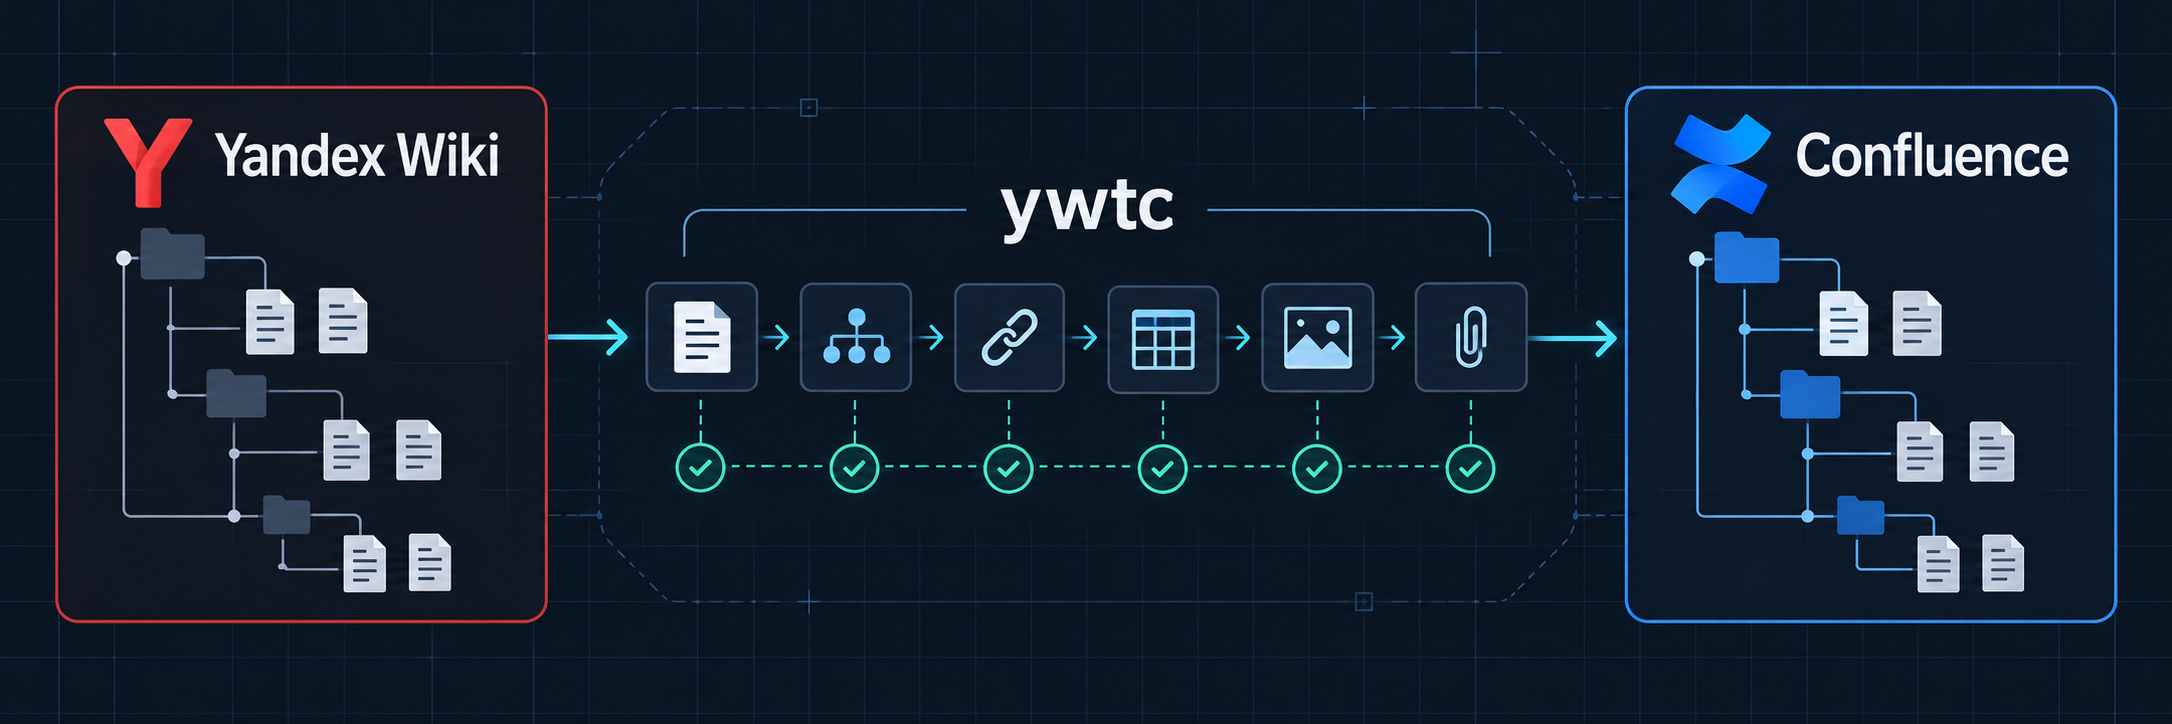
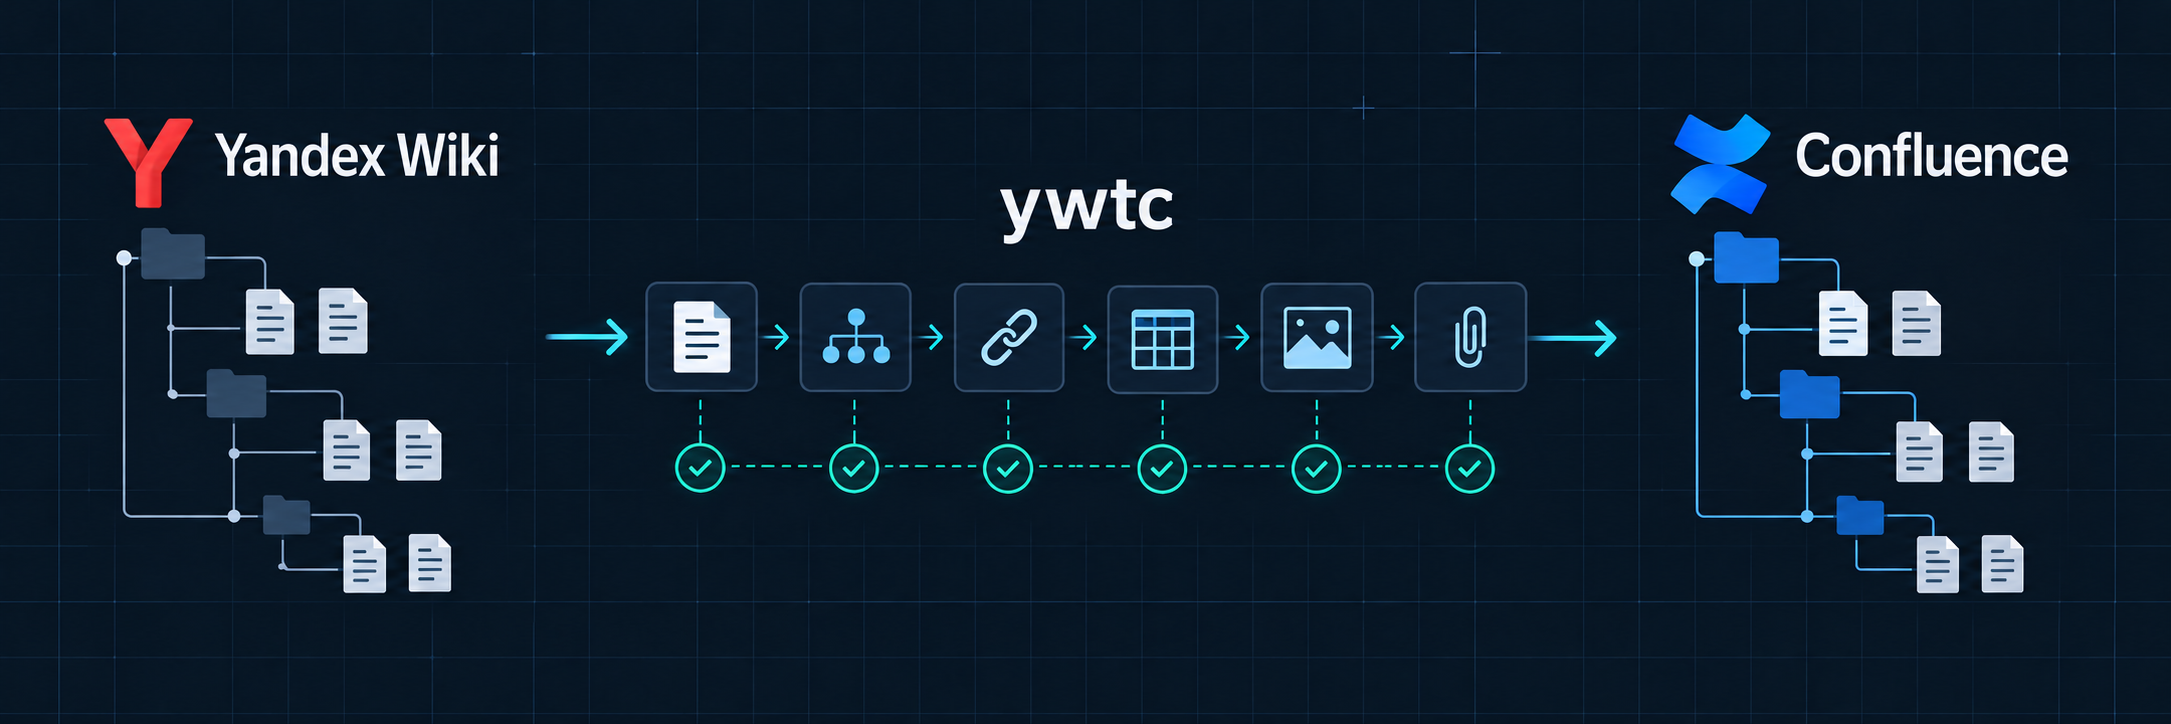
docs: simplify README cover framing
Remove the colored frames around Yandex Wiki, Confluence, and the central ywtc pipeline while preserving the approved composition. Archive the validated OpenSpec change.

diff --git a/openspec/changes/archive/2026-10-14-refine-readme-cover/specs/project-maintenance/spec.md b/openspec/changes/archive/2026-10-14-refine-readme-cover/specs/project-maintenance/spec.md
@@ -1,0 +1,32 @@
+## MODIFIED Requirements
+
+### Requirement: Public repository documentation and metadata
+The project SHALL consistently identify itself as `ywtc` and the public npm package `@iwonz/ywtc`, SHALL identify its MIT license and public repository, and SHALL provide concise, neutral, non-repetitive, current-only documentation for installation, supported vendor APIs/products, credentials, workdir initialization, commands, complete environment and CLI parameters, state, reports, updates, releases, breaking migration, and local development.
+
+#### Scenario: A new operator reads the README
+- **WHEN** the repository README is opened
+- **THEN** it SHALL present a visually verified full-width dark technical header showing Yandex Wiki, the `ywtc` migration pipeline, and Confluence, without colored frames around the source panel, destination panel, or central pipeline, plus a short path to install, initialize, diagnose, dry-run, inspect, and migrate
+
+#### Scenario: README readability is reviewed
+- **WHEN** documentation repeats a rule, caveat, or operational instruction across sections
+- **THEN** the README SHALL keep one canonical explanation and use concise cross-references elsewhere without losing required information
+
+#### Scenario: CLI help is opened
+- **WHEN** an operator runs `ywtc --help`, `ywtc <command> --help`, or `ywtc --version`
+- **THEN** the output SHALL identify `ywtc`, list the explicit v2 commands, and provide command-specific current usage without requiring configuration
+
+#### Scenario: Platform compatibility is inspected
+- **WHEN** an operator evaluates a Yandex Wiki or Confluence target
+- **THEN** the README SHALL identify Public API v1, Data Center 7.9+ without an upper bound subject to capability preflight, Cloud API support, unsupported Server/auth profiles, the review date, and the boundary between contract tests and live certification
+
+#### Scenario: Parameters are inspected
+- **WHEN** an operator constructs a command or configuration
+- **THEN** the README SHALL provide compact complete tables for commands, CLI options, and environment variables with type, requirement conditions, accepted values/formats, defaults, examples, and descriptions without a duplicated reference section
+
+#### Scenario: Token setup is inspected
+- **WHEN** an operator follows authentication instructions
+- **THEN** the README SHALL give short vendor-linked checklists for Yandex OAuth/IAM, Data Center PAT, and Cloud email/API token without real credentials
+
+#### Scenario: Package metadata is inspected
+- **WHEN** npm or release tooling consumes package metadata
+- **THEN** it SHALL name `@iwonz/ywtc`, expose binary `ywtc`, allow public scoped publication, require Node.js 22.12 or newer, reference the repository and MIT license, and include only intended publishable files

diff --git a/openspec/changes/archive/2026-10-14-refine-readme-cover/design.md b/openspec/changes/archive/2026-10-14-refine-readme-cover/design.md
@@ -1,0 +1,48 @@
+## Context
+
+The existing 2172×724 README header is approved in composition and content.
+Only three decorative frame groups are unwanted: the red Yandex Wiki panel
+border, the blue Confluence panel border, and the outline surrounding the
+central `ywtc` pipeline.
+
+## Goals / Non-Goals
+
+**Goals:**
+
+- Remove only the specified frames.
+- Restore the dark grid background seamlessly where lines are removed.
+- Preserve the source asset's dimensions and all approved visual content.
+
+**Non-Goals:**
+
+- Redesigning logos, typography, icons, color grading, or composition.
+- Changing README text or any runtime behavior.
+
+## Decisions
+
+Use ImageGen in precise image-edit mode with the current cover as the reference.
+The edit prompt will identify every removable outline and enumerate invariants
+that must remain unchanged. This is preferable to regenerating the illustration,
+which would introduce unnecessary variation, or manually painting the complex
+grid and glow background.
+
+Inspect the generated bitmap at original resolution before replacing the tracked
+asset. Retain the existing PNG path so the README needs no markup change.
+
+## Risks / Trade-offs
+
+- **Generative drift** → Constrain the prompt to a precise-object edit, compare
+  the output visually with the reference, and iterate if unrelated details move.
+- **Visible inpainting seams** → Require matching grid, texture, illumination,
+  and glow continuity in each removed-frame area.
+- **Dimension changes** → Verify the replacement retains the current wide cover
+  aspect and suitable full-width README resolution.
+
+## Migration Plan
+
+Replace the single tracked PNG after visual verification. Rollback consists of
+restoring the prior asset from Git history; there is no data migration.
+
+## Open Questions
+
+None.

diff --git a/openspec/changes/archive/2026-10-14-refine-readme-cover/proposal.md b/openspec/changes/archive/2026-10-14-refine-readme-cover/proposal.md
@@ -1,0 +1,33 @@
+## Why
+
+The approved README cover communicates the migration flow well, but the colored
+frames around the vendor panels and central `ywtc` pipeline add unnecessary
+visual weight. Removing only those outlines will make the hierarchy cleaner
+without changing the established artwork.
+
+## What Changes
+
+- Remove the red border around the Yandex Wiki panel.
+- Remove the blue border around the Confluence panel.
+- Remove the decorative outline immediately to the left and right of the
+  central `ywtc` pipeline.
+- Preserve the cover dimensions, composition, labels, logos, icons, colors,
+  background, and all other visual details.
+- Do not change runtime behavior, documentation text, or repository interfaces.
+
+## Capabilities
+
+### New Capabilities
+
+None.
+
+### Modified Capabilities
+
+- `project-maintenance`: Refine the required visual hierarchy of the README
+  header by removing the three decorative framing elements.
+
+## Impact
+
+Only `docs/assets/readme-header.png` and the corresponding documentation
+specification are affected. The edit is non-destructive to runtime data and has
+no code, API, dependency, packaging, or migration behavior impact.

diff --git a/openspec/specs/project-maintenance/spec.md b/openspec/specs/project-maintenance/spec.md
@@ -30,7 +30,7 @@ The project SHALL consistently identify itself as `ywtc` and the public npm pack
 
 #### Scenario: A new operator reads the README
 - **WHEN** the repository README is opened
-- **THEN** it SHALL present a visually verified full-width dark technical header showing Yandex Wiki, the `ywtc` migration pipeline, and Confluence, plus a short path to install, initialize, diagnose, dry-run, inspect, and migrate
+- **THEN** it SHALL present a visually verified full-width dark technical header showing Yandex Wiki, the `ywtc` migration pipeline, and Confluence, without colored frames around the source panel, destination panel, or central pipeline, plus a short path to install, initialize, diagnose, dry-run, inspect, and migrate
 
 #### Scenario: README readability is reviewed
 - **WHEN** documentation repeats a rule, caveat, or operational instruction across sections

diff --git a/openspec/changes/archive/2026-10-14-refine-readme-cover/tasks.md b/openspec/changes/archive/2026-10-14-refine-readme-cover/tasks.md
@@ -1,0 +1,10 @@
+## 1. Cover Refinement
+
+- [x] 1.1 Inspect the current README cover at original resolution.
+- [x] 1.2 Remove only the Yandex Wiki, Confluence, and central pipeline frames.
+- [x] 1.3 Verify the edited image preserves its wide dimensions, content, and composition.
+
+## 2. Validation
+
+- [x] 2.1 Run the complete project quality gate.
+- [x] 2.2 Archive the OpenSpec change and validate the repository strictly.
